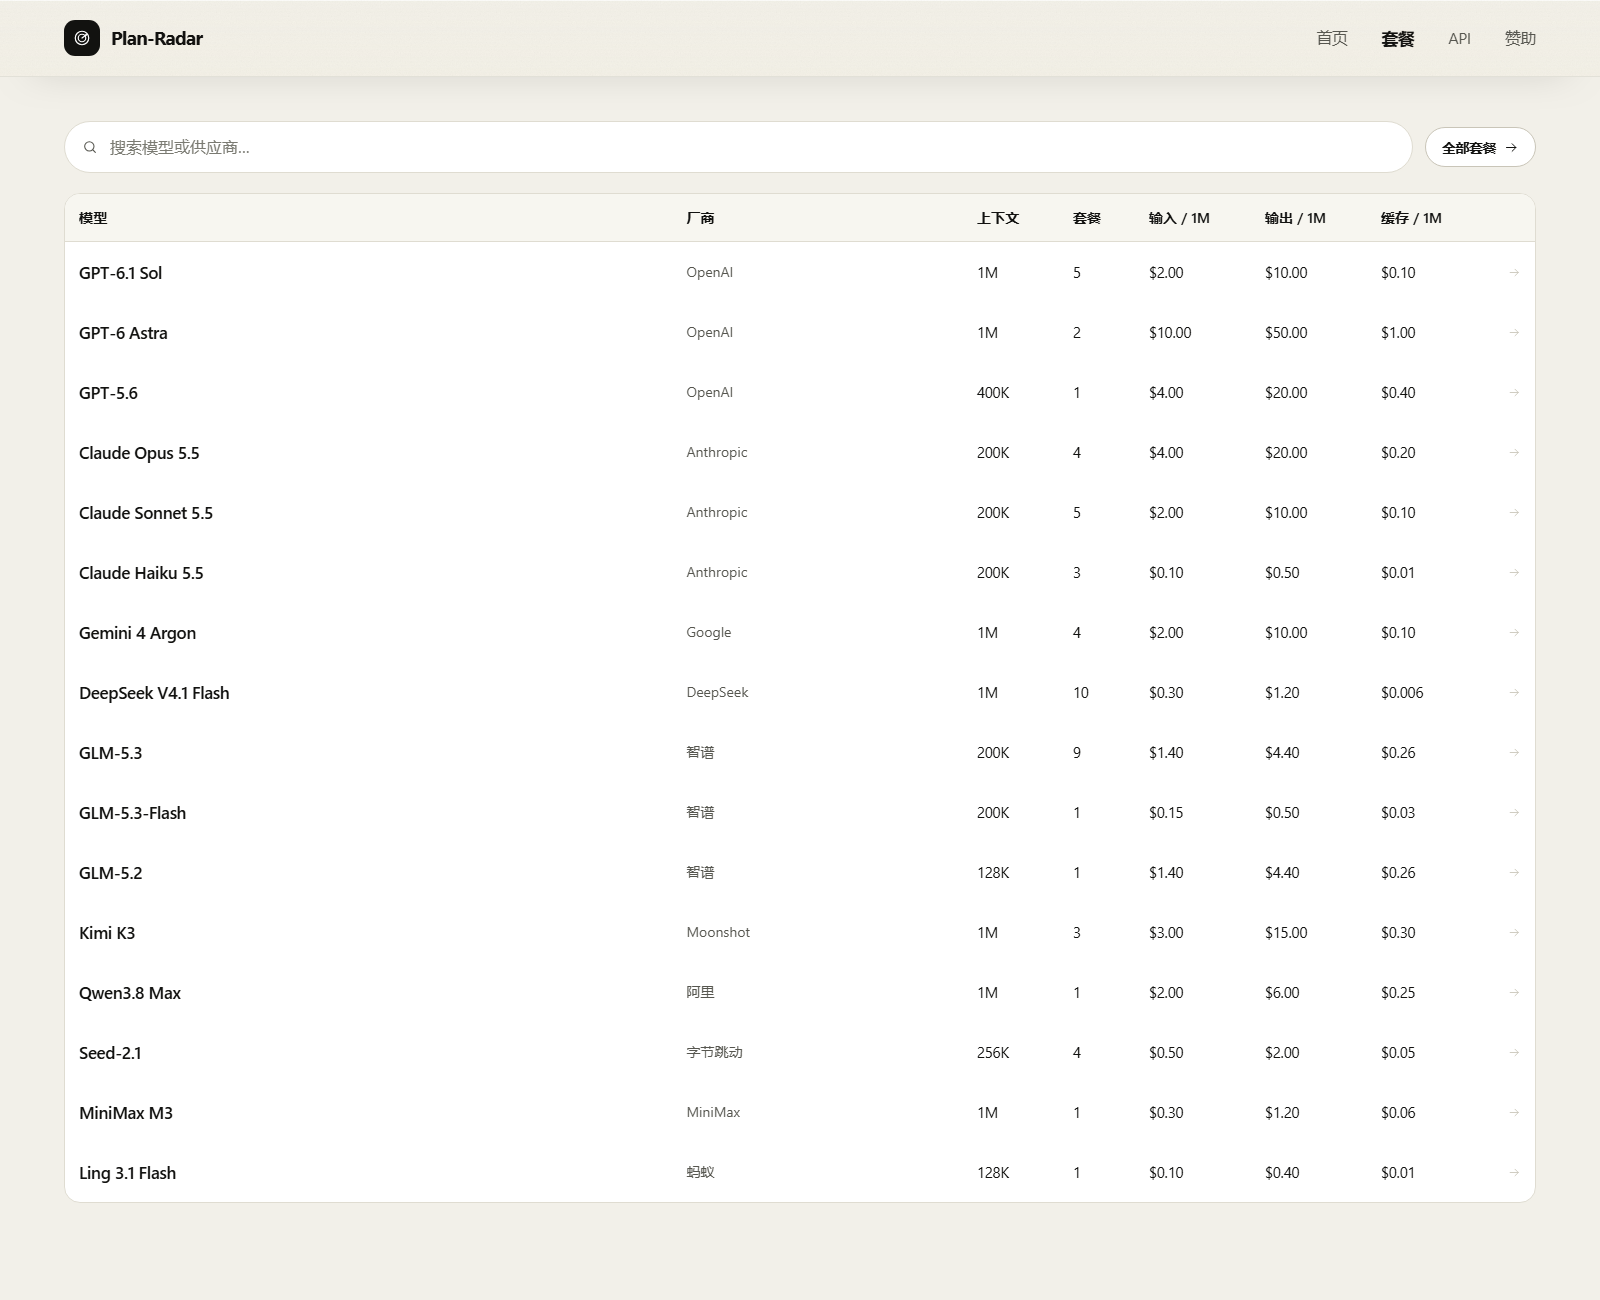
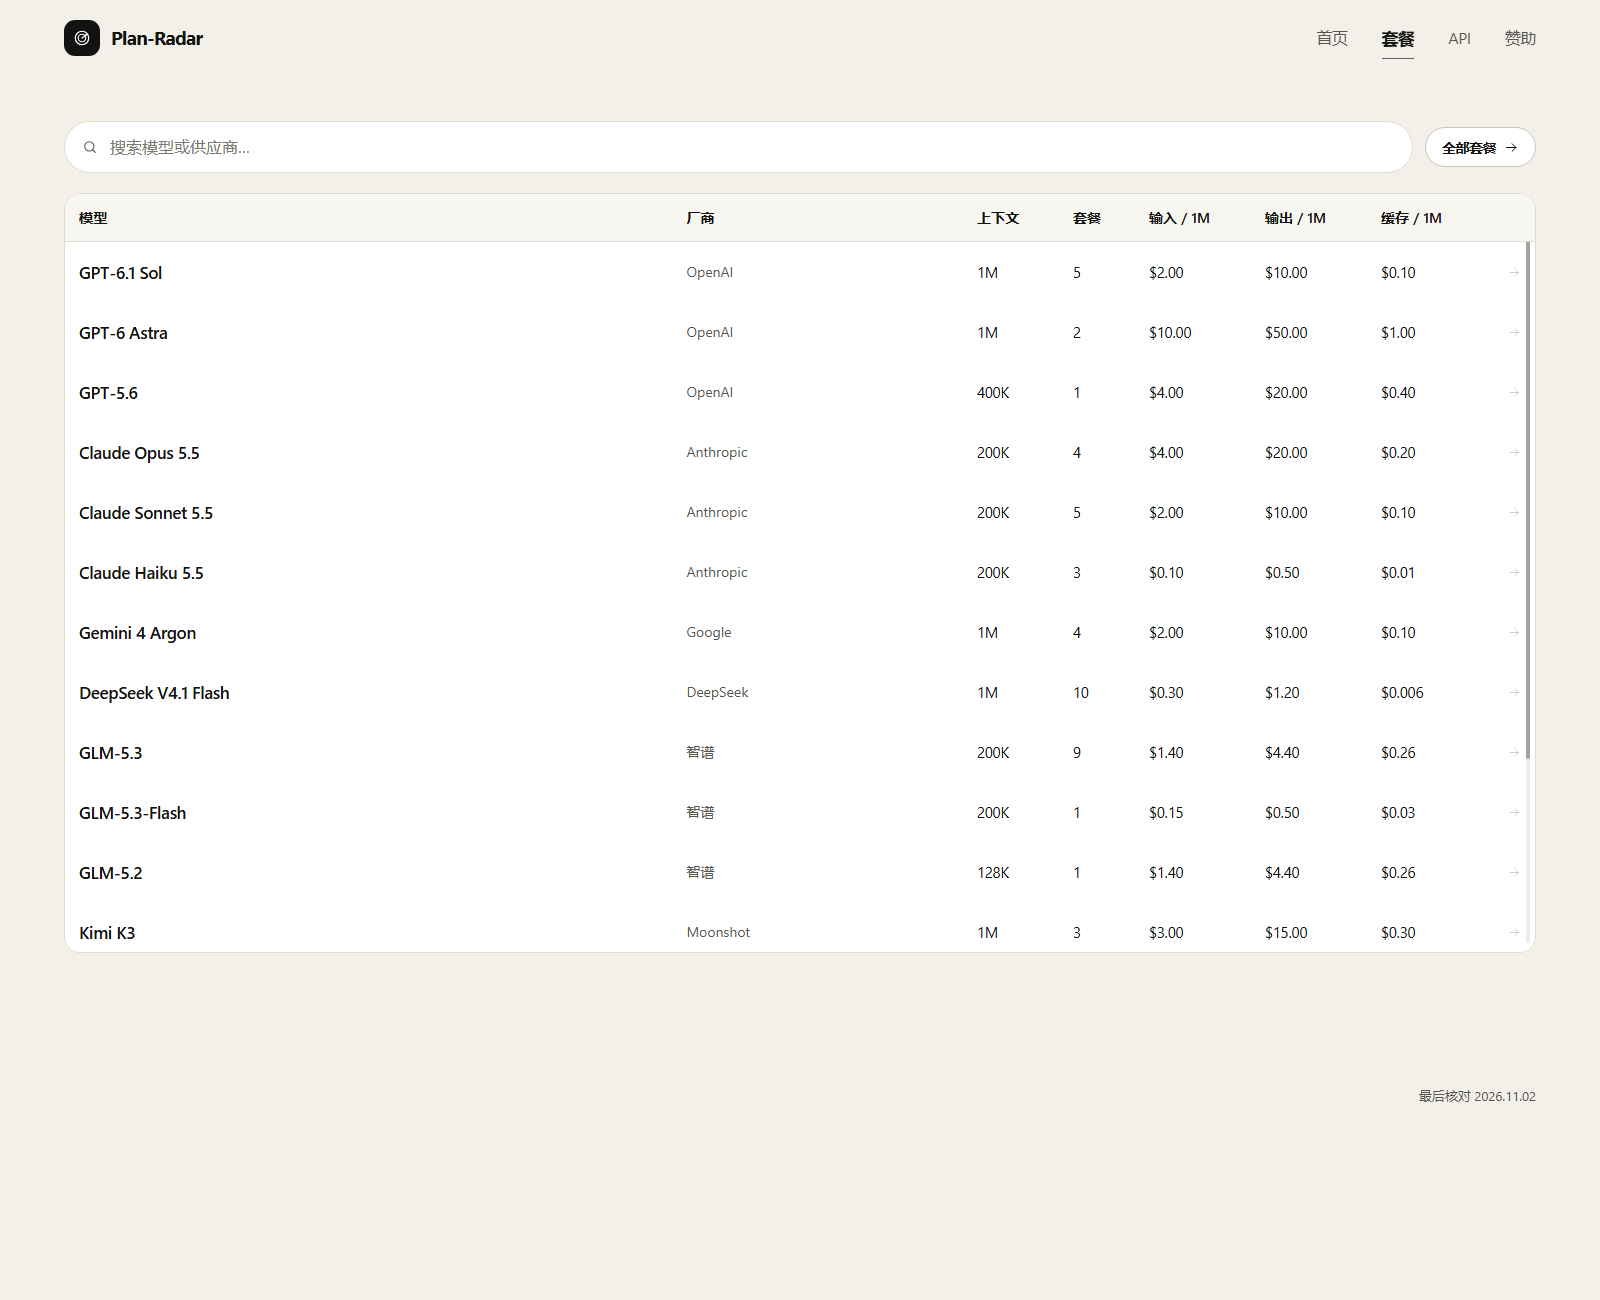
feat: keep model table in fixed-height scroller

diff --git a/components/ModelTable.tsx b/components/ModelTable.tsx
@@ -1,6 +1,6 @@
 "use client";
 
-import { useEffect, useMemo, useState } from "react";
+import { useCallback, useEffect, useMemo, useRef, useState } from "react";
 import type { TokenPrice } from "@/lib/api";
 import type { ModelInfo } from "@/lib/catalog";
 import { Icon } from "./Icon";
@@ -26,6 +26,35 @@ export function ModelTable({
 }: ModelTableProps) {
   const [query, setQuery] = useState("");
   const keyword = query.trim().toLowerCase();
+  const wrapRef = useRef<HTMLDivElement>(null);
+  const [scrollInfo, setScrollInfo] = useState({
+    overflow: false,
+    thumb: 1,
+    top: 0,
+  });
+
+  const updateScroll = useCallback(() => {
+    const element = wrapRef.current;
+    if (!element) return;
+    const max = element.scrollHeight - element.clientHeight;
+    setScrollInfo({
+      overflow: max > 4,
+      thumb: Math.min(1, element.clientHeight / element.scrollHeight),
+      top: max > 0 ? element.scrollTop / max : 0,
+    });
+  }, []);
+
+  useEffect(() => {
+    const element = wrapRef.current;
+    updateScroll();
+    if (!element) return;
+    element.addEventListener("scroll", updateScroll, { passive: true });
+    window.addEventListener("resize", updateScroll);
+    return () => {
+      element.removeEventListener("scroll", updateScroll);
+      window.removeEventListener("resize", updateScroll);
+    };
+  }, [updateScroll]);
 
   useEffect(() => {
     const fromUrl = new URLSearchParams(window.location.search).get("q");
@@ -41,6 +70,11 @@ export function ModelTable({
         .includes(keyword),
     );
   }, [rows, keyword]);
+
+  useEffect(() => {
+    const frame = window.requestAnimationFrame(updateScroll);
+    return () => window.cancelAnimationFrame(frame);
+  }, [visible.length, updateScroll]);
 
   return (
     <>
@@ -72,8 +106,9 @@ export function ModelTable({
         ) : null}
       </div>
 
-      <div className="model-table-wrap">
-        <div className={`model-table model-table-${mode}`}>
+      <div className="model-table-frame">
+        <div className="model-table-wrap" ref={wrapRef}>
+          <div className={`model-table model-table-${mode}`}>
           <div className="model-table-head">
             <span>模型</span>
             <span>厂商</span>
@@ -105,7 +140,19 @@ export function ModelTable({
               </span>
             </a>
           ))}
+          </div>
         </div>
+
+        {scrollInfo.overflow ? (
+          <div className="model-table-scrollbar" aria-hidden="true">
+            <span
+              style={{
+                height: `${scrollInfo.thumb * 100}%`,
+                top: `${scrollInfo.top * (1 - scrollInfo.thumb) * 100}%`,
+              }}
+            />
+          </div>
+        ) : null}
       </div>
 
       {visible.length === 0 ? (

diff --git a/app/globals.css b/app/globals.css
@@ -1061,13 +1061,49 @@ body:has(.hero) {
   cursor: pointer;
 }
 
-.model-table-wrap { margin-top: 20px; overflow-x: auto; }
-.model-table {
-  min-width: 860px;
-  background: #fff;
+.model-table-wrap {
+  margin-top: 20px;
+  max-height: clamp(420px, calc(100vh - 280px), 760px);
+  overflow-x: auto;
+  overflow-y: scroll;
+  overscroll-behavior: contain;
   border: 1px solid var(--line);
   border-radius: 16px;
-  overflow: hidden;
+  background: #fff;
+  scrollbar-width: none;
+  -ms-overflow-style: none;
+}
+.model-table-wrap::-webkit-scrollbar { display: none; }
+.model-table-frame { position: relative; }
+.model-table-scrollbar {
+  position: absolute;
+  top: 10px;
+  bottom: 10px;
+  right: 6px;
+  width: 4px;
+  border-radius: 999px;
+  background: rgba(21, 21, 19, 0.07);
+  pointer-events: none;
+}
+.model-table-scrollbar span {
+  position: absolute;
+  left: 0;
+  right: 0;
+  border-radius: 999px;
+  background: rgba(21, 21, 19, 0.35);
+}
+.model-table-wrap::-webkit-scrollbar { width: 10px; height: 10px; }
+.model-table-wrap::-webkit-scrollbar-thumb {
+  border: 3px solid #fff;
+  border-radius: 999px;
+  background: var(--line-2);
+}
+.model-table-wrap::-webkit-scrollbar-track { background: transparent; }
+.model-table {
+  min-width: 860px;
+  background: transparent;
+  border: 0;
+  border-radius: 0;
 }
 .model-table-plans { min-width: 860px; }
 .model-table-head,
@@ -1079,6 +1115,9 @@ body:has(.hero) {
   grid-template-columns: minmax(220px, 1.4fr) minmax(90px, 0.65fr) 80px 60px 100px 100px 100px 24px;
 }
 .model-table-head {
+  position: sticky;
+  top: 0;
+  z-index: 2;
   min-height: 48px;
   padding: 0 14px;
   border-bottom: 1px solid var(--line);
@@ -2020,7 +2059,7 @@ body:has(.hero) {
   .tag-row { flex-direction: column; gap: 8px; }
   .tag-label { width: 100%; padding-top: 0; }
   .catalog-result { flex-direction: column; align-items: flex-start; gap: 10px; }
-  .model-table-wrap { margin-top: 24px; }
+  .model-table-wrap { margin-top: 24px; max-height: 70vh; }
   .model-table { min-width: 860px; }
   .model-table-plans { min-width: 860px; }
   .model-row { min-height: 52px; }
